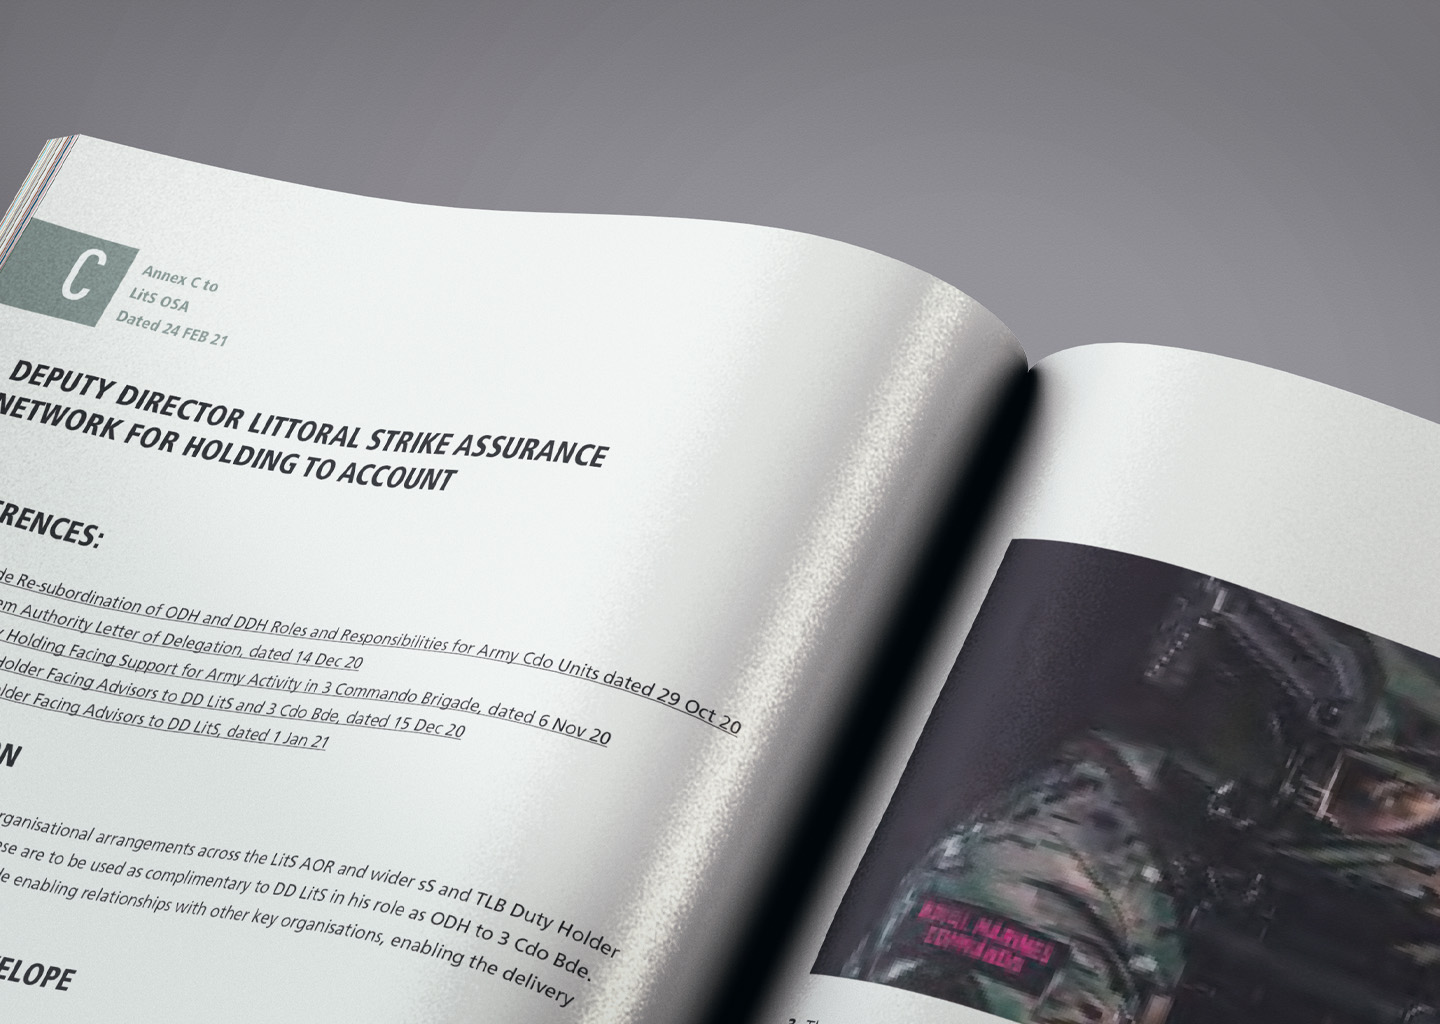
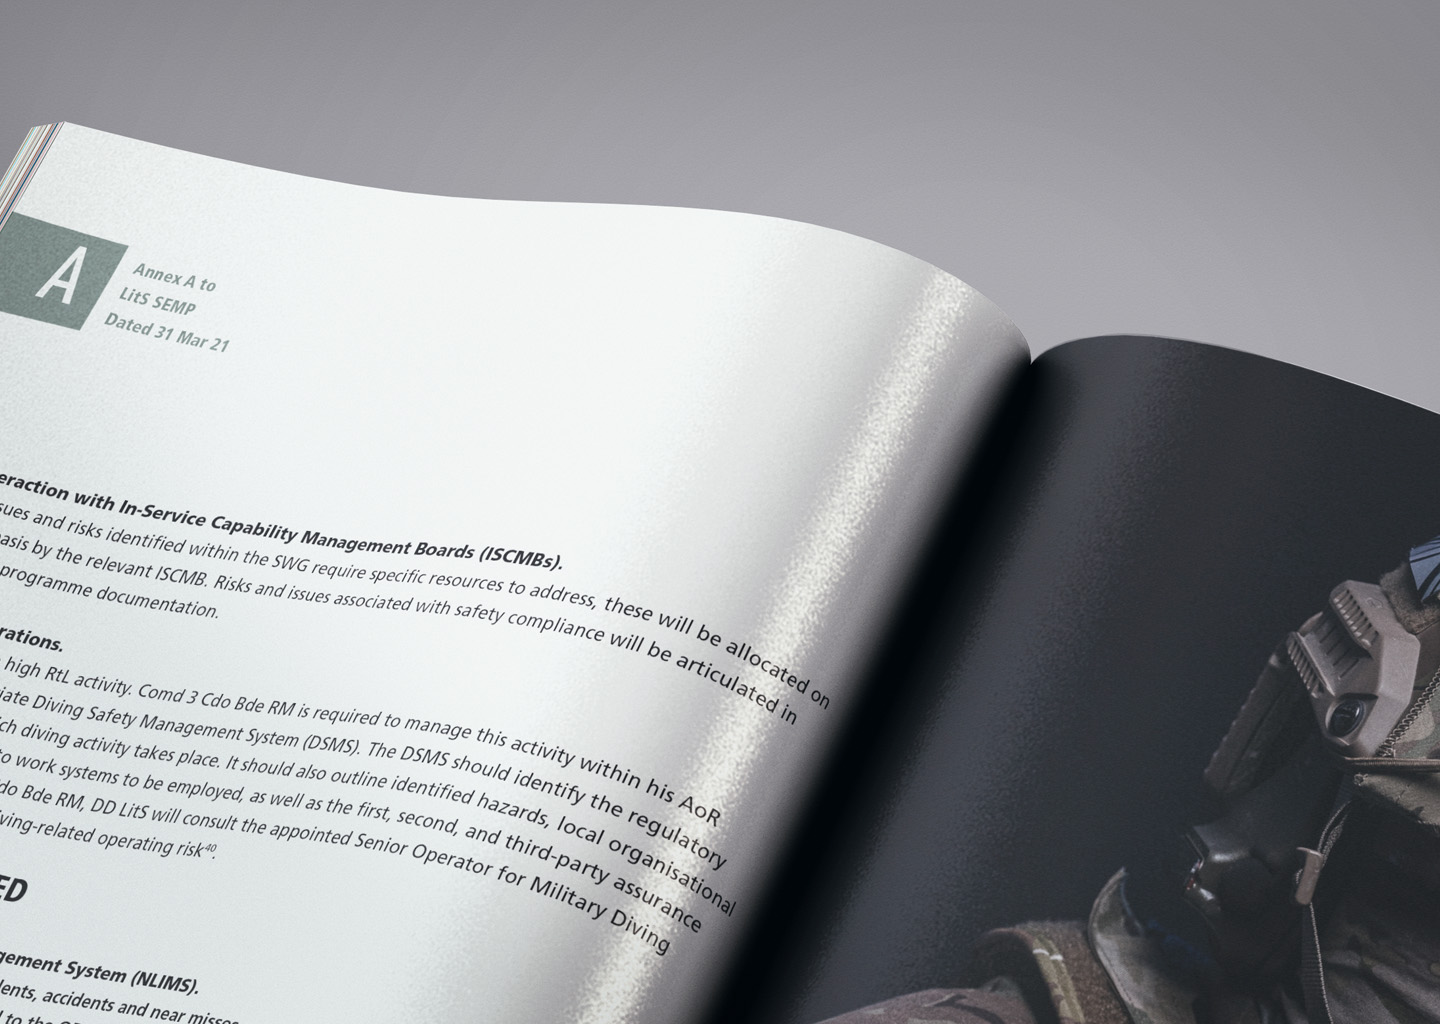
additions

diff --git a/work/specsavers/spec_showcase.html b/work/specsavers/spec_showcase.html
@@ -43,12 +43,13 @@
 ═════════════════════════════════════════════════════════ -->
 <section class="hero">
   <div class="hero-image">
-    <img src=".//spec_images/Comms_slides_main-gpg.jpg" alt="Project hero">
+    <img src="spec_images/spec5.jpg" alt="Project hero">
   </div>
   <div class="hero-gradient"></div>
   <div class="hero-content">
-    <p class="hero-cat">Case Study</p>
+  
     <h1 class="hero-title">Specsavers</h1>
+    <p class="hero-cat">Case Study</p>
   </div>
 </section>
 
@@ -62,7 +63,20 @@
   <cite>A little shortsighted when COVID hit!</cite>
 </section>
 
-<div class="section-divider"></div>
+<!-- ══════════════════════════════════════════════════════
+     3-COL — TRIPLE IMAGE
+═════════════════════════════════════════════════════════ -->
+<div class="three-col">
+  <div class="three-col-image">
+    <img src="spec_images/spec7.jpg" alt="small image">
+  </div>
+  <div class="three-col-image">
+    <img src="spec_images/spec3.jpg" alt="small image">
+  </div>
+  <div class="three-col-image">
+    <img src="spec_images/spec8.jpg" alt="small image">
+  </div>
+</div>
 
 
 <!-- ══════════════════════════════════════════════════════
@@ -71,11 +85,16 @@
 <div class="two-col">
   <div class="col-text">
     <p class="section-label"></p>
-    <h2>Snappy Title</h2>
-    <p>Some amazing inciteful text will go here.</p>
+    <h2>big company</h2>
+    <p>It never occurred to me that the high street optometrist was a global company, really happy to get the job and work with 
+      such a large established brand. It became clear pretty quickly that this job was far removed form the 
+      official creatives who were based at main HQ in Guernsey. This caught me out a little, I dont know what I was expecting
+      but the sacle of the company and frequent comparisons to the previous antipodean team and how amazing they were
+      made the position feel like a competition I didn't feel that I would win.
+    </p>
    </div> 
   <div class="col-image">
-    <img src="spec_images/Annual_Review_Image_3.jpg" alt="Vector artwork">
+    <img src="spec_images/spec6.jpg" alt="Vector artwork">
   </div>
 </div>
 
@@ -85,7 +104,7 @@
      FULL BLEED IMAGE
 ═════════════════════════════════════════════════════════ -->
 <div class="fullbleed">
-  <img src="spec_images/Leaflet_Inner_small.jpg" alt="Full bleed detail">
+  <img src="spec_images/spec1.jpg" alt="Full bleed detail">
   <div class="fullbleed-caption">
     <span>Vector detail — Adobe Illustrator</span>
   </div>
@@ -96,12 +115,16 @@
 ═════════════════════════════════════════════════════════ -->
 <div class="two-col">
   <div class="col-image">
-    <img src="spec_images/Comms_slides_main-gpg.jpg" alt="3D render">
+    <img src="spec_images/spec9.jpg" alt="3D render">
   </div>
   <div class="col-text">
     <p class="section-label"></p>
-    <h2>Snappy Title</h2>
-    <p>Some amazing inciteful text will go here.</p>
+    <h2>Rebrand</h2>
+    <p>At the start of year two, an internal rebranding project was the main focus and I enjoyed being part
+      of the senior team helping to implement and troubleshoot. For some reason, things were starting to go south within our team (for me at least, maybe too much powerpoint?)
+      and then COVID19 hit, working from home, followed by furlough and then eventually being laid off. I appreciate it happened
+      to a lot of people, I was luckier than some but it still leaves a slight bitter taste, such a huge company with profit in the (ryhmes with millions!!)
+      shed a lot of good people, obviously no business can prepare for such an event but still, somehow disappointing.</p>
   </div>
 </div>
 

diff --git a/work/mod/dd_lits_publication.html b/work/mod/dd_lits_publication.html
@@ -71,11 +71,14 @@
 <div class="two-col">
   <div class="col-text">
     <p class="section-label"></p>
-    <h2>Snappy Title</h2>
-    <p>Some amazing inciteful text will go here.</p>
+    <h2>Design Principles</h2>
+    <p>Part of my (self motivated) remit was to try and bring some form of brand consistency
+      to whichever project I was working on, a vast amount of publications contained supplied content
+      such as official charts and graphics which needed sympathetic integration, to try and stop
+    things looking like a random collection of clip art. </p>
    </div> 
   <div class="col-image">
-    <img src="images/ddlits1.jpg" alt="Vector artwork">
+    <img src="images/ddlits2.jpg" alt="Vector artwork">
   </div>
 </div>
 
@@ -85,9 +88,25 @@
      FULL BLEED IMAGE
 ═════════════════════════════════════════════════════════ -->
 <div class="fullbleed">
-  <img src="images/ddlits.jpg" alt="Full bleed detail">
+  <img src="images/ddlits1.jpg" alt="Full bleed detail">
   <div class="fullbleed-caption">
     <span>Vector detail — Adobe Illustrator</span>
+  </div>
+</div>
+
+<!-- ══════════════════════════════════════════════════════
+     2-COL — IMAGE LEFT
+═════════════════════════════════════════════════════════ -->
+<div class="two-col">
+  <div class="col-image">
+    <img src="images/ddlits3.jpg" alt="3D render">
+  </div>
+  <div class="col-text">
+    <p class="section-label"></p>
+    <h2>Consistency</h2>
+    <p>A lot of work with Navy Graphics was this kind of thing, publications and reports that needed
+      clarity and attention to detail whilst retaining brand consistency and visual impact.
+    </p>
   </div>
 </div>
 

diff --git a/index.html b/index.html
@@ -89,18 +89,18 @@
     </a>
 
     <a class="gallery-item" href="#" style="--item-color:#55EFC4">
-      <img src="images/project-6.jpg" alt="Dong Ding">
+      <img src="images/veedub1.jpg" alt="veedub">
       <div class="g-overlay"></div><div class="g-bar"></div>
       <div class="gallery-caption">
-        <p class="cat">Apparel</p><p class="title">Dong Ding</p>
+        <p class="cat">Identity</p><p class="title">Veedub</p>
       </div>
     </a>
 
     <a class="gallery-item" href="#" style="--item-color:#E17055">
-      <img src="images/project-7.jpg" alt="Fork in the Road">
+      <img src="images/369-2.jpg" alt="369">
       <div class="g-overlay"></div><div class="g-bar"></div>
       <div class="gallery-caption">
-        <p class="cat">Illustration</p><p class="title">Fork in the Road</p>
+        <p class="cat">Personal Identity</p><p class="title">369</p>
       </div>
     </a>
 

diff --git a/work/designimage/designimage_showcase.html b/work/designimage/designimage_showcase.html
@@ -84,7 +84,7 @@
      FULL BLEED IMAGE
 ═════════════════════════════════════════════════════════ -->
 <div class="fullbleed">
-  <img src="di_images/gecko2.jpg" alt="Full bleed detail">
+  <img src="di_images/di1.jpg" alt="Full bleed detail">
   <div class="fullbleed-caption">
     <span>Vector detail — Adobe Illustrator</span>
   </div>
